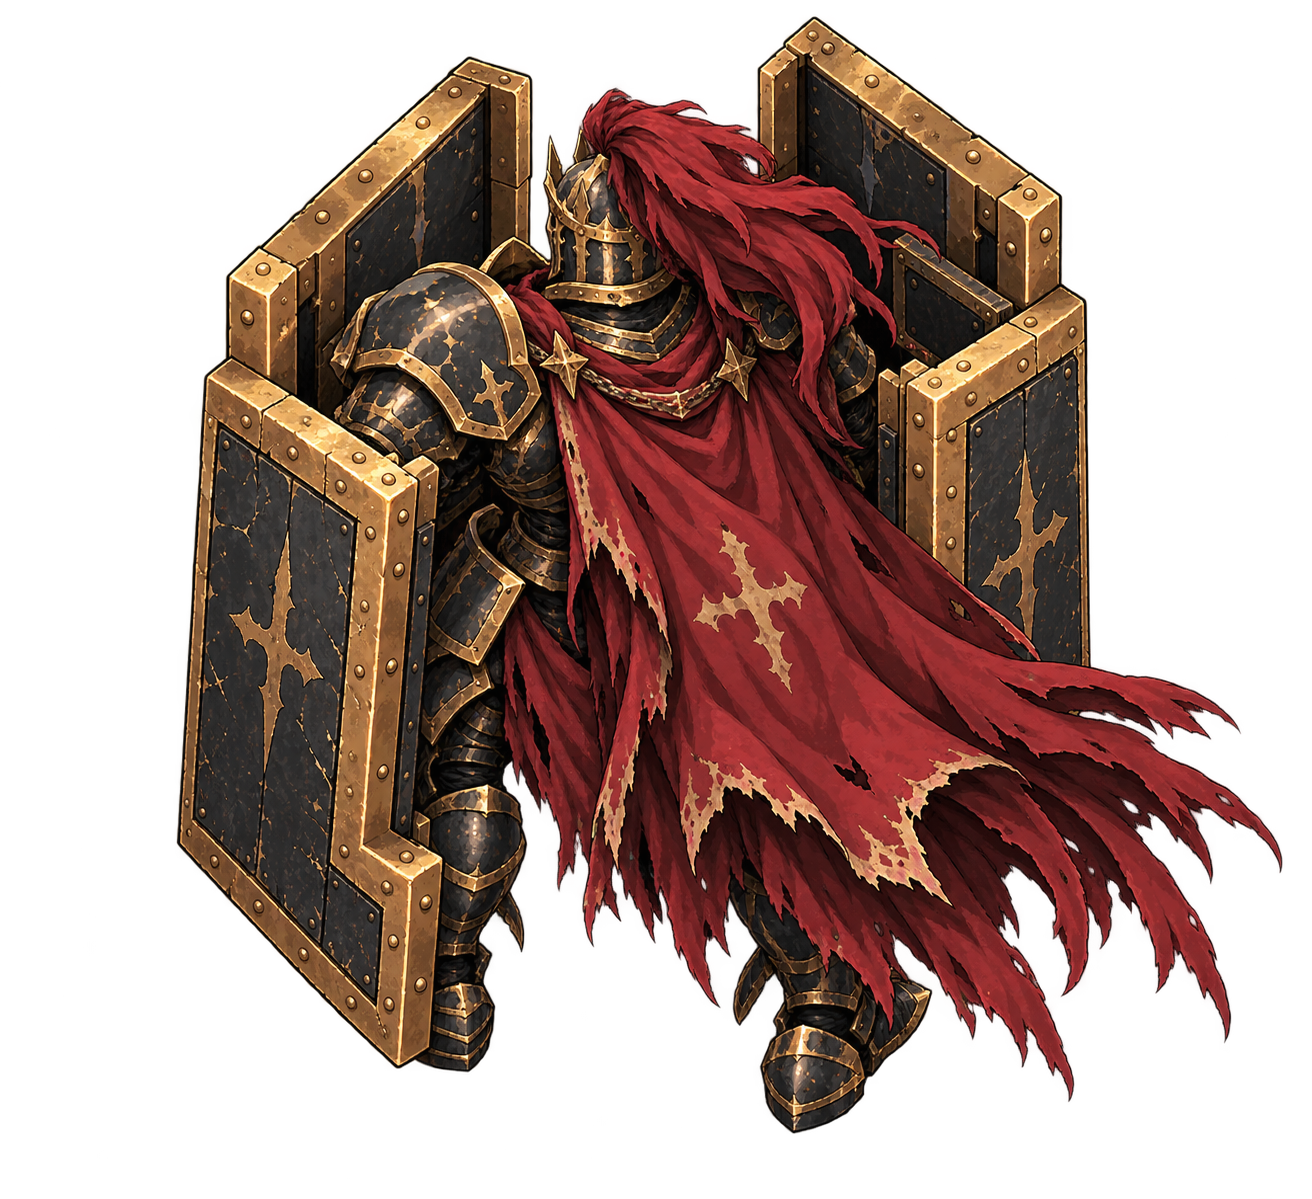
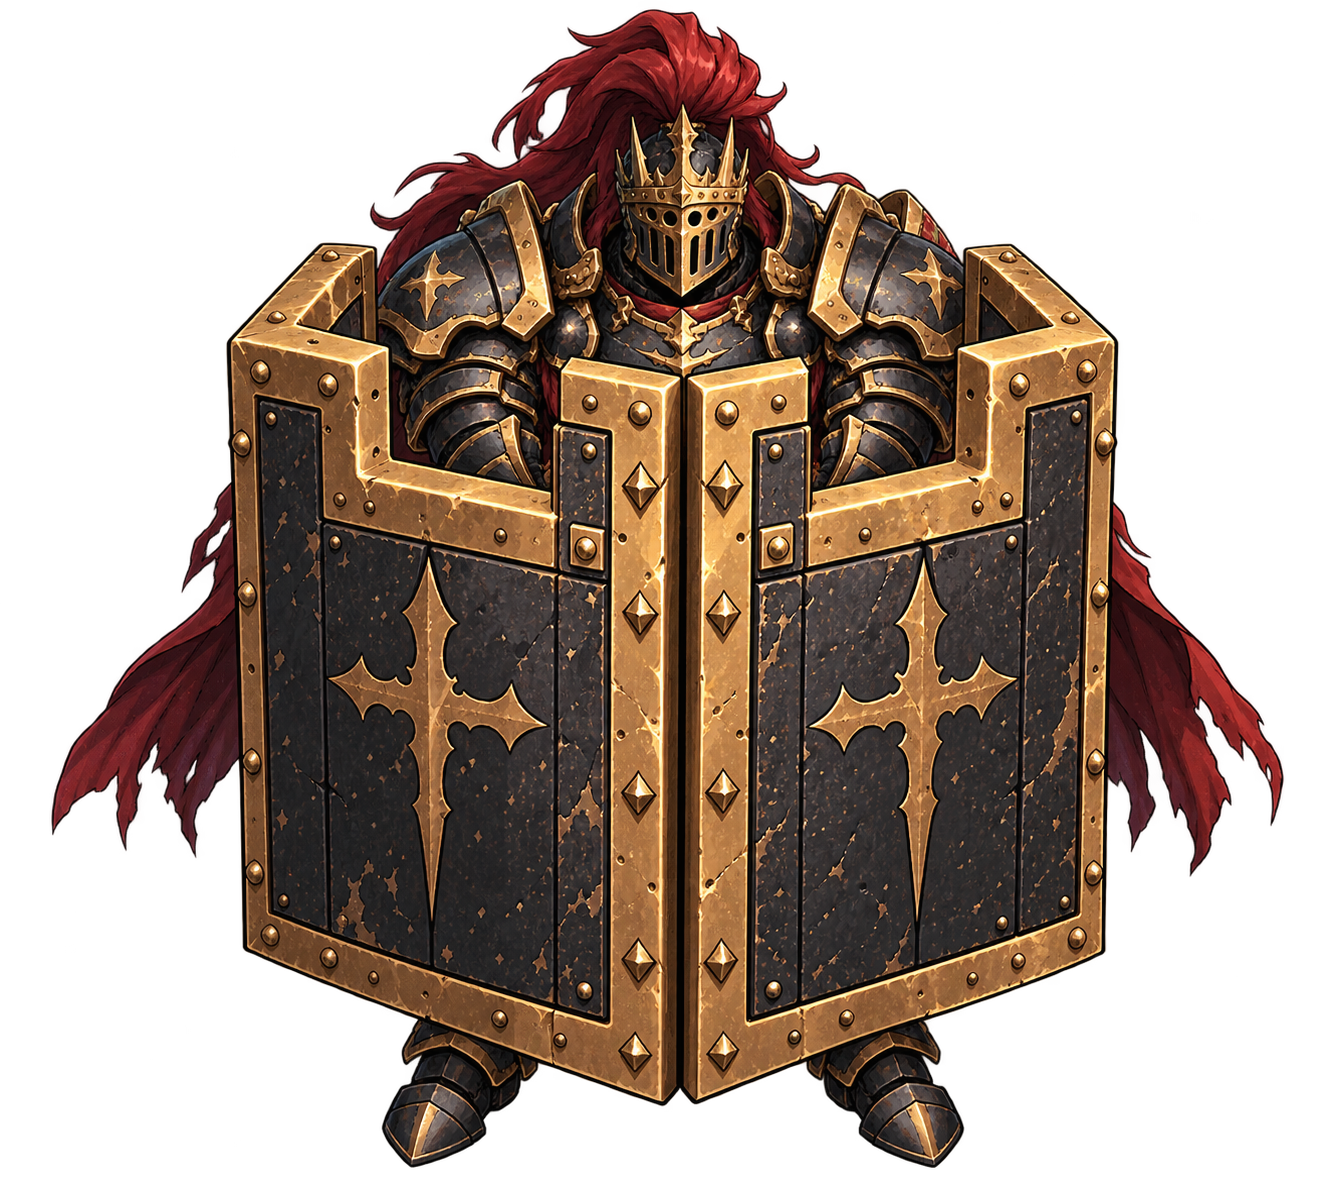
Use front guard art for Rampart

diff --git a/static/games/boomerang/story-art.js b/static/games/boomerang/story-art.js
@@ -4,9 +4,9 @@ const soldierBack=new Image();soldierBack.src='assets/soldier-back.png';
 const buckler=new Image(),battlefield=new Image(),bucklerSprites=new Image();buckler.src="assets/buckler-reference.png";battlefield.src="assets/battlefield.png";bucklerSprites.src="assets/buckler-sprites.png";
 const targe=new Image(),targeSprites=new Image();targe.src='assets/targe-reference.png';targeSprites.src='assets/targe-sprites.png';
 const warden=new Image(),wardenSprites=new Image();warden.src='assets/warden-reference.png';wardenSprites.src='assets/warden-sprites.png';
-const rampart=new Image();rampart.src='assets/rampart.png';
+const rampart=new Image(),rampartBack=new Image();rampart.src='assets/rampart.png';rampartBack.src='assets/rampart-back.png';
 const targeFront=new Image(),wardenPortrait=new Image();targeFront.src='assets/targe-front-cutout.png';wardenPortrait.src='assets/warden-portrait.png';
-const ready=Promise.all([buckler.decode(),battlefield.decode(),bucklerSprites.decode(),targe.decode(),targeSprites.decode(),targeFront.decode(),warden.decode(),wardenSprites.decode(),wardenPortrait.decode(),rampart.decode(),shu.decode(),guard.decode(),soldier.decode(),soldierBack.decode()]);
+const ready=Promise.all([buckler.decode(),battlefield.decode(),bucklerSprites.decode(),targe.decode(),targeSprites.decode(),targeFront.decode(),warden.decode(),wardenSprites.decode(),wardenPortrait.decode(),rampart.decode(),rampartBack.decode(),shu.decode(),guard.decode(),soldier.decode(),soldierBack.decode()]);
 const shuFaces={grin:[1003,123,280,285],serious:[995,493,209,224],smile:[1227,490,207,229],panic:[994,774,211,239],idea:[1224,780,207,232]};
 const guardFaces={smug:[1312,497,211,201],angry:[1083,500,211,201],surprised:[1078,779,216,238]};
 function draw(ctx,speaker,face){ctx.save();ctx.imageSmoothingEnabled=true;ctx.clearRect(0,0,160,160);if(speaker==='シュウ'){let r=shuFaces[face]||shuFaces.serious;ctx.drawImage(shu,...r,0,0,160,160);}else if(speaker==='シールダ十人隊長'){let r=guardFaces[face]||guardFaces.smug;ctx.drawImage(guard,...r,0,0,160,160);}else if(speaker==='バックラー副隊長'){const faces={normal:[1248,59,133,151],angry:[1393,58,124,151],smug:[1247,247,135,151],surprised:[1394,248,122,151]};ctx.drawImage(buckler,...(faces[face]||faces.normal),0,0,160,160);}else if(speaker==='タージェ隊長'){const faces={normal:[939,344,194,154],talk:[1139,344,194,154],angry:[1338,344,194,154]};ctx.drawImage(targe,...(faces[face]||faces.normal),0,0,160,160);}else if(speaker==='ウォーデン'){ctx.drawImage(wardenPortrait,0,0,wardenPortrait.naturalWidth,wardenPortrait.naturalHeight,0,0,160,160);}else if(speaker==='筆頭騎士 ランパート'){ctx.drawImage(rampart,0,0,rampart.naturalWidth,rampart.naturalHeight,0,0,160,160);}else{const r=face==='panic'||face==='dizzy'?[1000,741,208,205]:[1005,479,210,200];ctx.drawImage(soldier,...r,0,0,160,160);}ctx.restore();}
@@ -21,6 +21,6 @@ function showTargeFront(ctx){ctx.save();ctx.fillStyle='#07101bbb';ctx.fillRect(0
 function drawWarden(ctx,x,y,phase='idle',flash=0){const sw=wardenSprites.naturalWidth/5,sh=wardenSprites.naturalHeight,frame=phase==='hit'?2:phase==='cast'?1:0,scale=.18;ctx.save();ctx.imageSmoothingEnabled=false;if(flash>0)ctx.filter='brightness(1.8)';ctx.drawImage(wardenSprites,sw*frame,0,sw,sh,x-sw*scale*.5,y-74,sw*scale,sh*scale);ctx.restore();}
 function drawStaff(ctx,x,y,flash=0){const sw=wardenSprites.naturalWidth/5,sh=wardenSprites.naturalHeight,scale=.18;ctx.save();ctx.imageSmoothingEnabled=false;if(flash>0)ctx.filter='brightness(1.9)';ctx.drawImage(wardenSprites,sw*3,0,sw,sh,x-sw*scale*.5,y-91,sw*scale,sh*scale);ctx.restore();}
 function drawBarrier(ctx,x,y,angle,flash=0){const sw=wardenSprites.naturalWidth/5,sh=wardenSprites.naturalHeight,scale=.18;ctx.save();ctx.translate(x,y);ctx.rotate(angle+Math.PI/2);ctx.imageSmoothingEnabled=false;if(flash>0)ctx.filter='brightness(2)';ctx.drawImage(wardenSprites,sw*4,0,sw,sh,-sw*scale*.5,-sh*scale*.5,sw*scale,sh*scale);ctx.restore();}
-function drawRampart(ctx,x,y,phase='move',flash=0){ctx.save();if(flash>0)ctx.filter='brightness(1.8)';if(phase==='charge'||phase==='dash'){ctx.translate(x,y+25);ctx.fillStyle='#1c2029';ctx.strokeStyle='#d4a55a';ctx.lineWidth=7;ctx.beginPath();ctx.moveTo(-42,-12);ctx.lineTo(-19,112);ctx.lineTo(0,150);ctx.lineTo(19,112);ctx.lineTo(42,-12);ctx.closePath();ctx.fill();ctx.stroke();ctx.fillStyle='#ede0bf';ctx.beginPath();ctx.moveTo(-10,6);ctx.lineTo(0,133);ctx.lineTo(10,6);ctx.closePath();ctx.fill();ctx.translate(0,-34);ctx.drawImage(rampart,0,0,rampart.naturalWidth,rampart.naturalHeight,-75,-93,150,150);}else ctx.drawImage(rampart,0,0,rampart.naturalWidth,rampart.naturalHeight,x-84,y-100,168,168);ctx.restore();}
+function drawRampart(ctx,x,y,phase='move',flash=0){ctx.save();if(flash>0)ctx.filter='brightness(1.8)';if(phase==='charge'||phase==='dash'){ctx.translate(x,y+25);ctx.fillStyle='#1c2029';ctx.strokeStyle='#d4a55a';ctx.lineWidth=7;ctx.beginPath();ctx.moveTo(-42,-12);ctx.lineTo(-19,112);ctx.lineTo(0,150);ctx.lineTo(19,112);ctx.lineTo(42,-12);ctx.closePath();ctx.fill();ctx.stroke();ctx.fillStyle='#ede0bf';ctx.beginPath();ctx.moveTo(-10,6);ctx.lineTo(0,133);ctx.lineTo(10,6);ctx.closePath();ctx.fill();ctx.translate(0,-34);ctx.drawImage(rampartBack,0,0,rampartBack.naturalWidth,rampartBack.naturalHeight,-75,-93,150,150);}else ctx.drawImage(rampart,0,0,rampart.naturalWidth,rampart.naturalHeight,x-84,y-100,168,168);ctx.restore();}
 root.StoryArt={ready,draw,drawSoldier,background,drawBuckler,drawTarge,drawWarden,drawStaff,drawBarrier,drawRampart,showBack,showBucklerBack,showTargeShield,showTargeFront};
 })(window);
